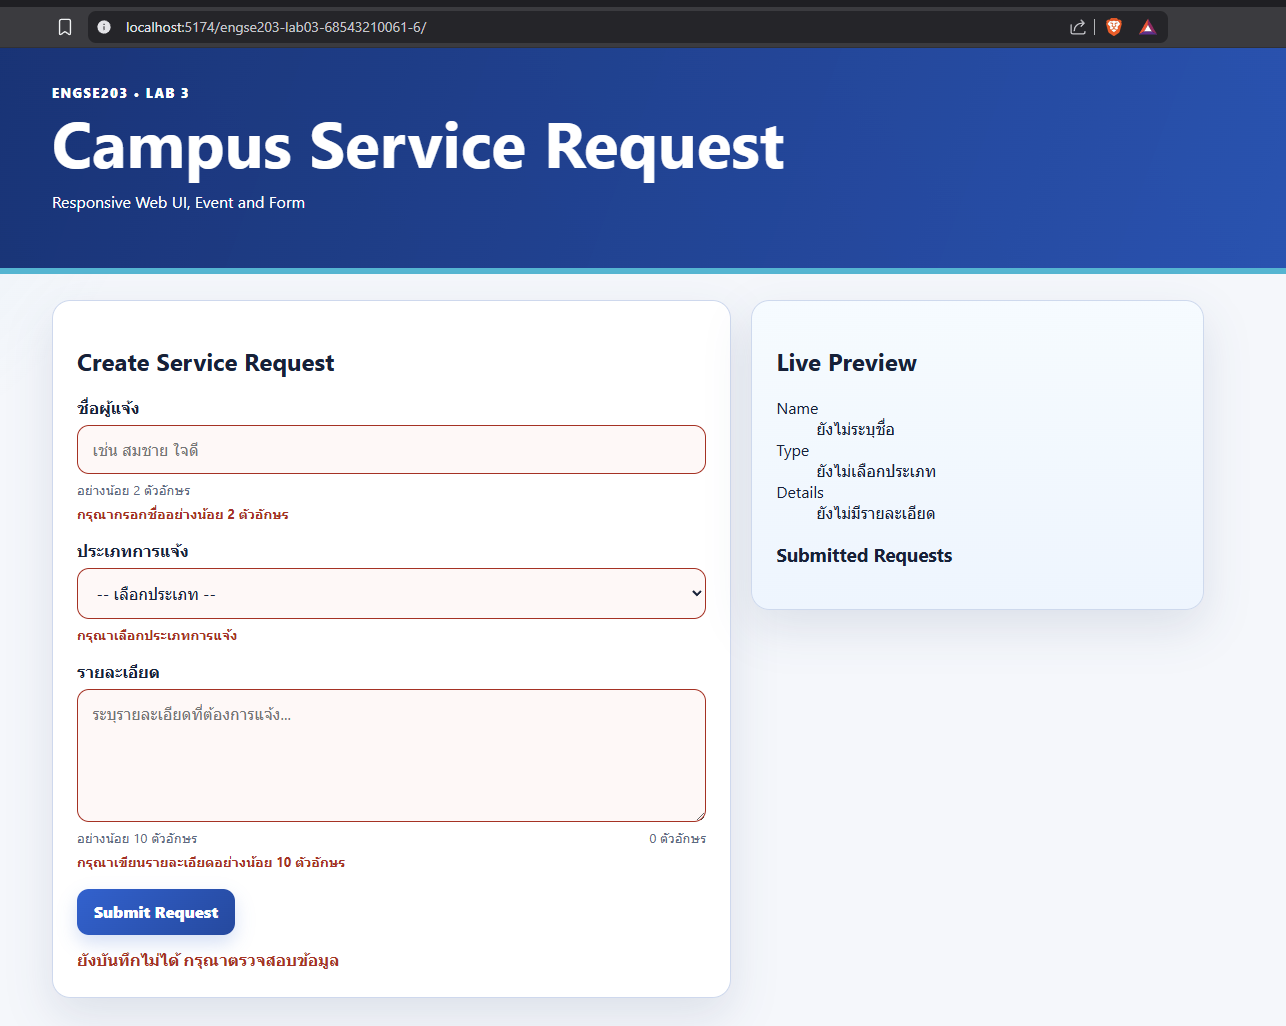
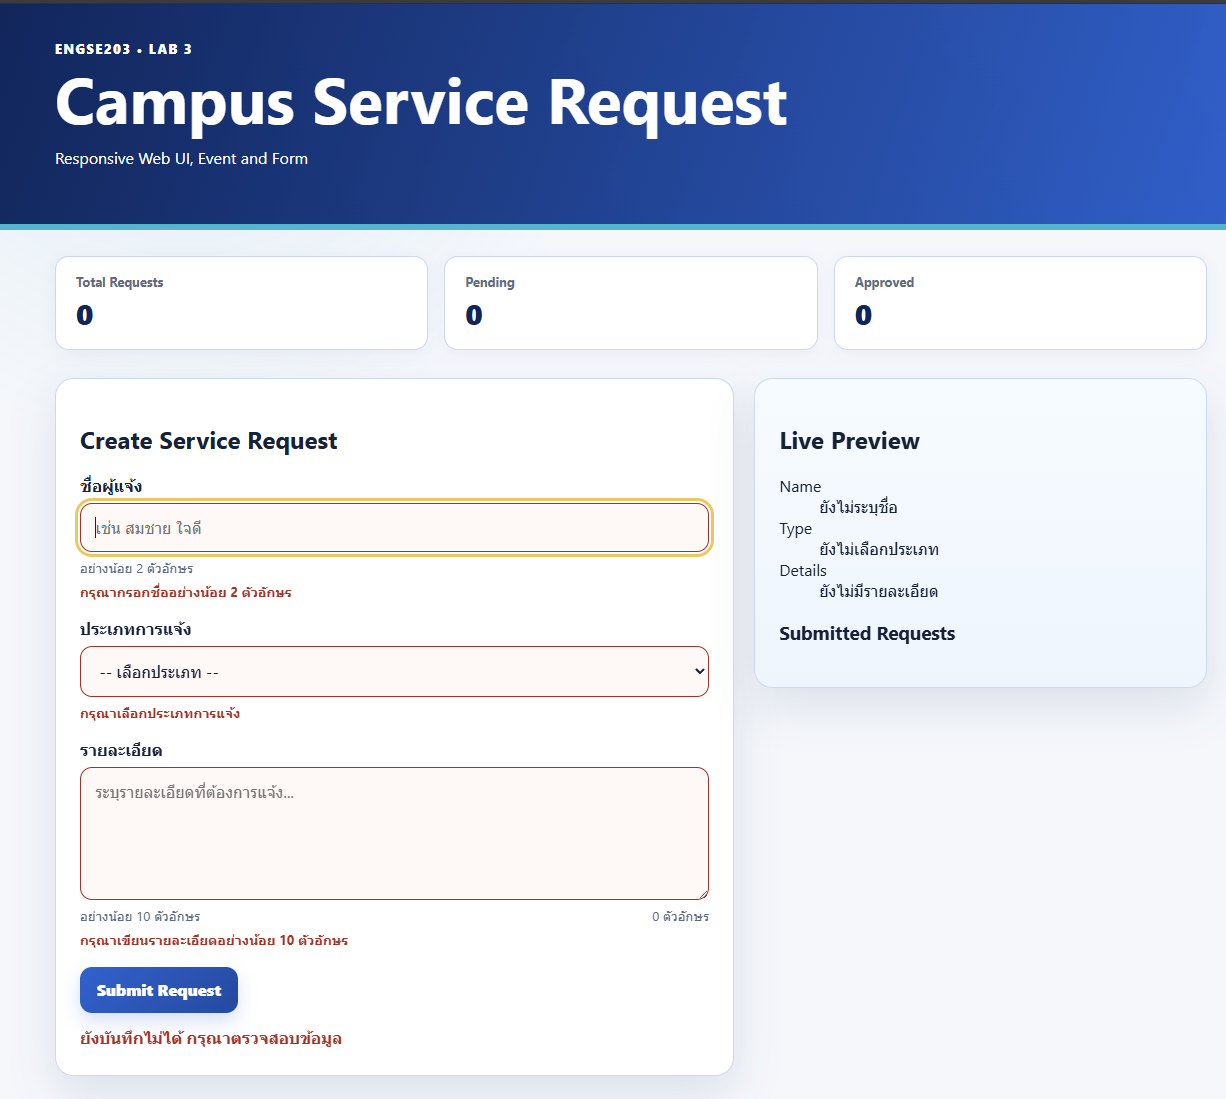
README update

diff --git a/README.md b/README.md
@@ -38,10 +38,7 @@ npm run build
 
 ## โครงสร้างไฟล์
 
-```text
 .
-├── docs/
-├── node_modules/
 ├── src/
 │   ├── main.js
 │   └── style.css
@@ -69,6 +66,8 @@ npm run build
 ### 4. หน้าเว็บทดสอบ Validation
 ![Error](img/Error.png)
 
+### 5. หน้าเว็บ Submitted
+![Submitted](img/Submitted.png)
 ## ปัญหาที่พบและวิธีแก้ไข
 
 | ปัญหาที่พบ | สาเหตุ / วิธีแก้ไข |
